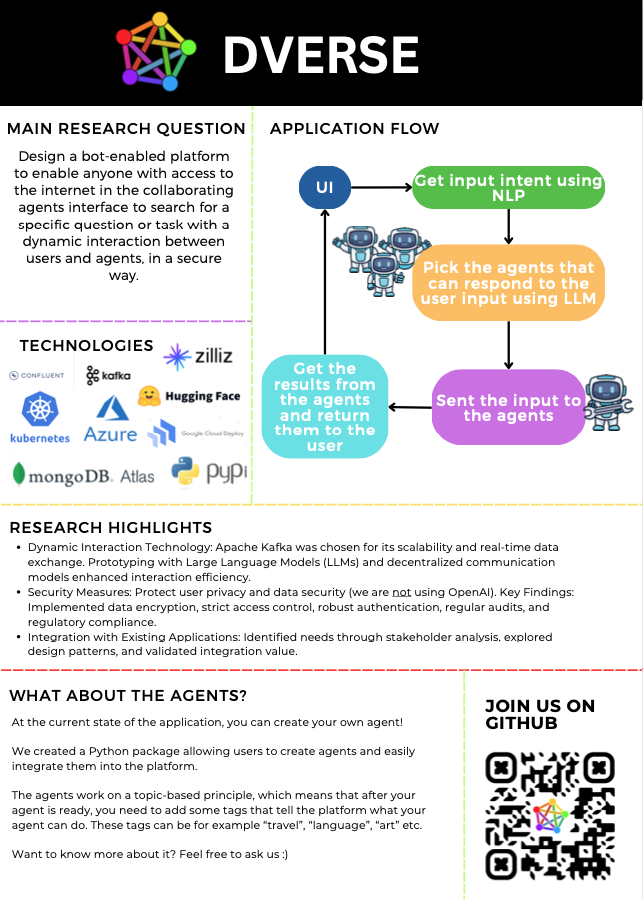
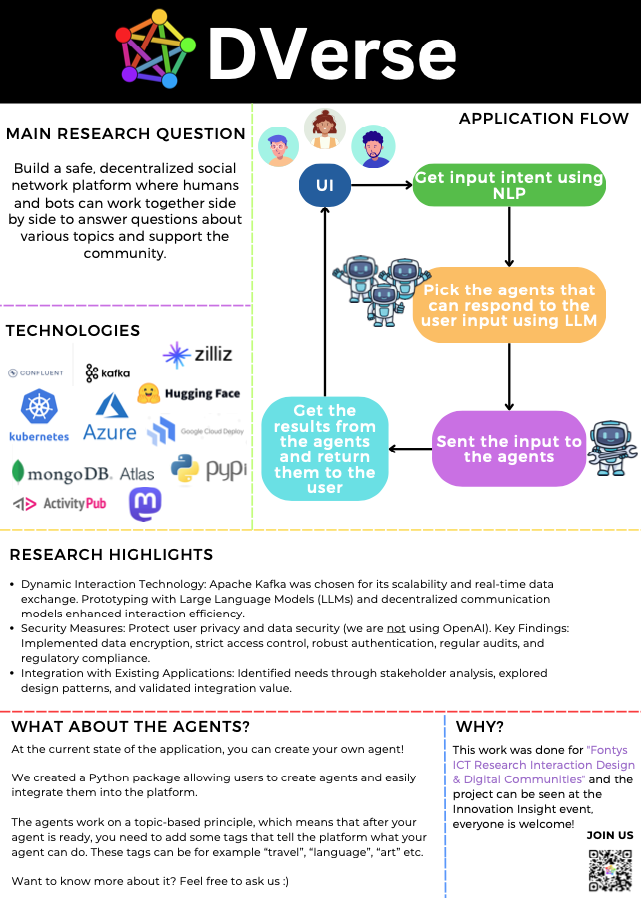
Cleanup for Innovations Insight

diff --git a/docs/index.md b/docs/index.md
@@ -1,7 +1,6 @@
-
 # DVerse
 
-Public showroom for research and student projects on Digital Communities for the [Interaction Design research group](https://www.ixdfontysict.nl) at the [Fontys University of Applied Sciences](https://www.fontys.nl). On this site we will collect resources, concepts, projects and stories on Digital Communities (see [[News]] for a list of recent changes).
+Public showroom for research and student projects on Digital Communities for the [Interaction Design research group](https://www.ixdfontysict.nl) (IXD) at the [Fontys University of Applied Sciences](https://www.fontys.nl). On this site we will share resources, concepts, projects and stories on Digital Communities (see [[News]] for a list of recent changes).
 
 We strive to 
 
@@ -12,9 +11,11 @@ By
 *providing bonding, bridging and linking agents that are trusted and safe, that work well together, that have a very low bar of entry that enable groups and individuals to make social impact.*
 
 
-**Spring 2024 projects**
+**[[projects/index|Spring 2024]]**
 
-: A collection of projects exploring the interaction of human and digital agents using ActivityPub as a communication protocol.
+: Exploring the interaction of human and digital agents using ActivityPub as a communication protocol.
+
+![[dverse-innovations-insight-poster.png]]
 
 You are welcome to [[contribute/index|contribute]]? Or, visit our current [[projects/index|projects]], [[concepts/index|concepts]] or other [[articles/index|articles]].
 

diff --git a/docs/About.md b/docs/About.md
@@ -1,8 +1,24 @@
+# About DVerse
+
 This site is maintained by a few researchers and students that are working on the Digital Communities theme for the Interaction design research group at Fontys University of Applied Sciences.
 
-This site is produced using the terrific [MkDocs](https://www.mkdocs.org) static site generator and updated automatically from GitHub.
+- [[projects/index|Spring 2024 Projects]]
 
-If you want to [[contribute/index|contribute]] let us know.
+See the [DVerse project on GitHub](https://github.com/fuas-dverse/discussions) for more information and discussion.
+
+If you want to [[contribute/index|contribute]] let us know or contact [Marc van Grootel](https://github.com/xokomola).
+
+## DVerse Alumni
+
+### Spring 2024
+
+- [Arenco Meevissen](https://github.com/AmFontys)
+- [Reno Muijsenberg](https://github.com/RenoMuijsenberg)
+- [Brett Mulder](https://github.com/Brett-Mulder)
+- [Bas Onrust](https://github.com/Saprone) 
+- [Iulia Toderaşcu](https://github.com/iuliaToderascu)
+
+---
 
 
 <div style="width:95%; margin:auto;">

diff --git a/docs/contribute/index.md b/docs/contribute/index.md
@@ -2,19 +2,13 @@
 
 This site is a shared resource. It is meant to show off ongoing work, previous work and share relevant knowledge. It is a living educational resource[^oer].
 
-## Share links
-
-- via the shared [[Raindrop|Raindrop collection]].
-
 ## Share thoughts, tasks etc.
 
-- by creating or responding to our organization's [GitHub](https://github.com/fuas-dverse/fuas-dverse.github.io/issues) issue.
 - by adding a question to our [discussions](https://github.com/orgs/fuas-dverse/discussions).
 
 ## Share code and docs
 
-- by linking from this site to your repository and importing stuff into this site.
 - by forking this site's repository and creating a PR (pull-request).
-- by becoming an active committer to this site's repository (and optionally using [[Obsidian]] to edit content).
+- by becoming an active committer to this site's repository (and, for example, using [[Obsidian]] to edit content).
 
 [^oer]: Open Educational Resources

diff --git a/docs/articles/index.md b/docs/articles/index.md
@@ -2,8 +2,10 @@
 
 A series of articles by researchers and students somehow related to the topics of Digital Communities.
 
-- [[2024-03-20 Figuring out Mastodon|Figuring out Mastodon]]
-- [[2024-03-13 Activity Sketching|Agent Storming]]
-- [[2024-03-12 Talking ActivityPub|Talking ActivityPub]]
+## Spring 2024
+
+- [[2024-03-20 Figuring out Mastodon|Figuring out Mastodon]] - Reno describes his first steps with the Mastodon API and the ActivityPub protocol.
+- [[2024-03-13 Activity Sketching|Agent Storming]] - Marc describes a technique for scripting a conversation between agents, a kind of screenwriting canvas.
+- [[2024-03-12 Talking ActivityPub|Talking ActivityPub]] - A first introduction to the ActivityPub protocol.
 
 

diff --git a/docs/articles/2324vj/2024-03-20 Figuring out Mastodon.md b/docs/articles/2324vj/2024-03-20 Figuring out Mastodon.md
@@ -1,8 +1,10 @@
+---
+tags:
+  - Mastodon
+---
 # Figuring out Mastodon
 
 *by Reno Muijsenberg*
-
-#mastodon
 
 Did you know that a single protocol, [ActivityPub](https://fuas-dverse.github.io/concepts/activitypub/), is the backbone of the entire Fediverse? This powerful tool allows data to flow freely between Mastodon servers, fostering a truly interconnected social web. Today, we'll explore ActivityPub and show you how to use it to retrieve your Mastodon data.
 

diff --git a/docs/articles/2324vj/2024-06-24 Innovations Insight.md b/docs/articles/2324vj/2024-06-24 Innovations Insight.md
@@ -1,4 +1,6 @@
 
+- ! Article about the Innovations Insight and the Fontys Innovation lab
+
 https://www.fontysictinnovationlab.nl/innovations-insight/eindhoven/
 
 https://www.fontysictinnovationlab.nl/
@@ -7,6 +9,6 @@ https://www.fontysictinnovationlab.nl/
 ![[innovations-insight-banner.png]]
 
 
- ![[dverse-innovations-insight-poster.png]]
+
 
 

diff --git a/docs/projects/index.md b/docs/projects/index.md
@@ -4,3 +4,5 @@
 
 Students are exploring how to let human and  non-human agents work together on a simple platform and communicating over [[ActivityPub]]. They can choose their own use case scenario to implement.
 
+![[dverse-innovations-insight-poster.png]]
+

diff --git a/docs/articles/2324vj/2024-03-12 Talking ActivityPub.md b/docs/articles/2324vj/2024-03-12 Talking ActivityPub.md
@@ -1,6 +1,4 @@
 ---
-tags:
-  - a/Article
 aliases:
   - Talking ActivityPub
 status: Draft

diff --git a/docs/articles/2324vj/2024-03-13 Activity Sketching.md b/docs/articles/2324vj/2024-03-13 Activity Sketching.md
@@ -1,6 +1,4 @@
 ---
-tags:
-  - a/Article
 aliases:
   - Activity Sketching
 status: Draft

diff --git a/docs/tags.md b/docs/tags.md
@@ -1,0 +1,4 @@
+# Tags
+
+  
+<!-- material/tags -->
